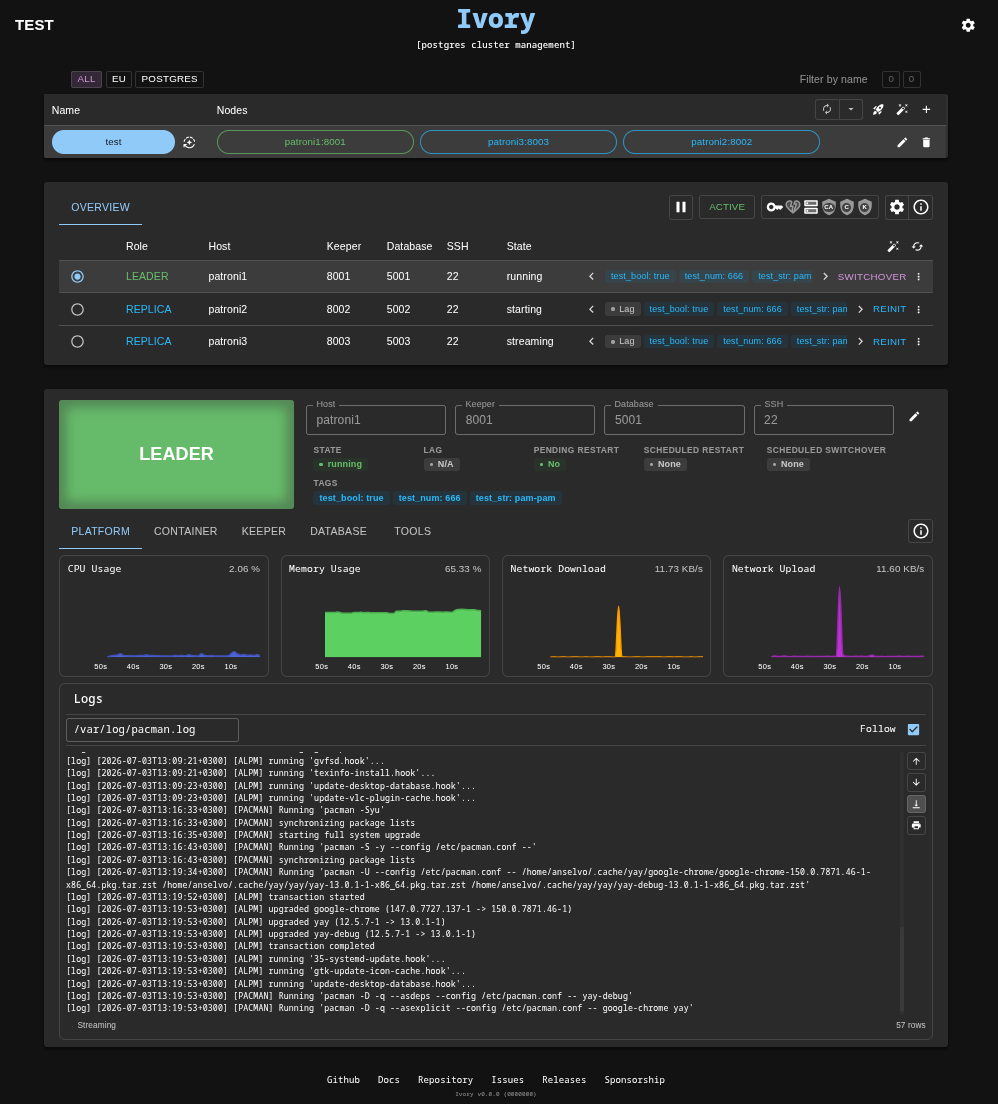
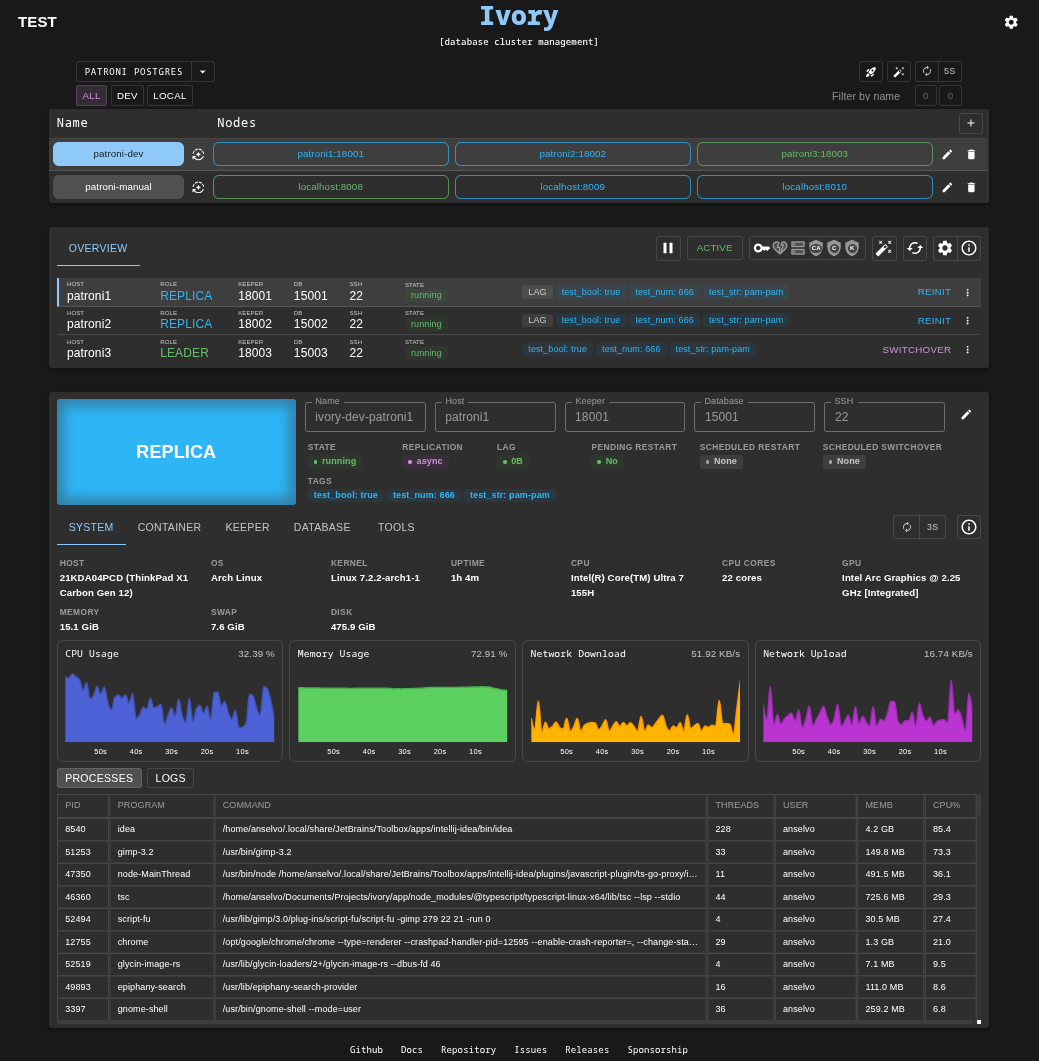
replace image in README.md; fix ivory-dev patroni run; add cluster detect alert

diff --git a/app/features/cluster/component/ClusterDetect.tsx b/app/features/cluster/component/ClusterDetect.tsx
@@ -2,6 +2,7 @@ import {AutoFixHigh} from "@mui/icons-material"
 import {Box, Button, TextField} from "@mui/material"
 import {useCallback, useEffect, useState} from "react"
 
+import {AlertCentered} from "../../../shared/component/box/AlertCentered"
 import {DialogScreen} from "../../../shared/component/box/DialogScreen"
 import {PaperBlue} from "../../../shared/component/box/PaperBlue"
 import {TitleBox} from "../../../shared/component/box/TitleBox"
@@ -59,6 +60,7 @@ export function ClusterDetect(props: Props) {
             >
                 <DialogScreen renderActions={renderActions()}>
                     <Box sx={SX.box}>
+                        {renderInfo()}
                         {renderCluster()}
                         {renderNode()}
                     </Box>
@@ -72,6 +74,17 @@ export function ClusterDetect(props: Props) {
             <Button fullWidth={true} loading={updateCluster.isPending} onClick={handleDetect}>
                 Detect
             </Button>
+        )
+    }
+
+    function renderInfo() {
+        return (
+            <PaperBlue>
+                <AlertCentered text={
+                    "Host, name, and ports come from the keeper, not your platform - if ports are mapped " +
+                    "or forwarded, they may differ from what you'd expect"
+                }/>
+            </PaperBlue>
         )
     }
 

diff --git a/app/features/node/component/container/ContainerList.tsx b/app/features/node/component/container/ContainerList.tsx
@@ -28,7 +28,7 @@ export function ContainerList(props: Props) {
     const list = useRouterNodePlatformList(connection)
 
     if (list.isError) return <ErrorSmart error={list.error}/>
-    if (list.isPending) return <SkeletonGroup count={1}/>
+    if (list.isPending) return <SkeletonGroup count={1} width={"100%"} height={130}/>
 
     return (
         <Box sx={SX.box}>

diff --git a/.docker/ivory-dev/README.md b/.docker/ivory-dev/README.md
@@ -13,10 +13,10 @@ All postgres instances are configured with ssl by default, and there are differe
 
 ## Connection
 
-- **Patroni Rest API:** `localhost:[8001-8005]` (example http://patroni1:8003)
-- **Postgres Ports:** `localhost:[5001-5005]` (example `psql --host=localhost --port=5003 --dbname=postgres --username=admin`, `password=admin`)
-- **HAProxy Statistics:** `localhost:8404` (example http://localhost:8404)
-- **Additional Patroni API** `patroni[1-3,-cert,-pass]:8008` you can add them to your hosts
+- **Patroni Rest API:** `localhost:[18001-18005]` (example http://patroni1:18003)
+- **Postgres Ports:** `localhost:[15001-15005]` (example `psql --host=localhost --port=15003 --dbname=postgres --username=admin`, `password=admin`)
+- **HAProxy Statistics:** `localhost:18404` (example http://localhost:18404)
+- **Additional Patroni API** `patroni[1-3,-cert,-pass]:18008` you can add them to your hosts
   (`/etc/hosts`) these lines to the file
   ``` 
   127.0.0.1 patroni1
@@ -25,12 +25,17 @@ All postgres instances are configured with ssl by default, and there are differe
   127.0.0.1 patroni-cert
   127.0.0.1 patroni-pass
   ```
-  
+
+The ports are shifted into the `18xxx`/`15xxx` range (and the containers are named `ivory-dev-*`) so this
+fixture never collides with the container names or ports that a shipped single-host deployment template
+(e.g. Patroni's, which defaults to `patroni1`/`patroni2`/`patroni3` on ports `8008-8010`) would use if you
+deploy it against `localhost` from the same Docker daemon.
+
 ### Clusters
 
-- `patroni[1-3]:[8001-8003]` - cluster is needed for general test
-- `patroni-cert:8004` - cluster is needed to check patroni certificates and required client certificates
-- `patroni-pass:8005` - cluster is needed to check patroni password and required password for unsafe requests
+- `patroni[1-3]:[18001-18003]` - cluster is needed for general test
+- `patroni-cert:18004` - cluster is needed to check patroni certificates and required client certificates
+- `patroni-pass:18005` - cluster is needed to check patroni password and required password for unsafe requests
 
 ### Users
 
@@ -44,7 +49,7 @@ All postgres instances are configured with ssl by default, and there are differe
 - `sslfull` - custom user, it requires `verify-full` connection and has password `sslfull:sslfull`
 
 #### Patroni
-- `patroni` - it is used to connect to cluster `patroni-pass:8005` with password `patroni:patroni
+- `patroni` - it is used to connect to cluster `patroni-pass:18005` with password `patroni:patroni
 
 ### Data
 

diff --git a/README.md b/README.md
@@ -3,7 +3,7 @@
 
 # Ivory
 
-### [database cluster management tool]
+### Deploy it. Watch it. Fix it. Anywhere.
 
    <img src="https://img.shields.io/github/deployments/veegres/ivory/production?style=flat-square&link=https%3A%2F%2Fgithub.com%2Fveegres%2Fivory%2Fdeployments%2Fproduction" alt="deployment" />
    <img src="https://img.shields.io/docker/v/veegres/ivory/latest?label=stable&style=flat-square&link=https%3A%2F%2Fhub.docker.com%2Fr%2Fveegres%2Fivory" alt="stable version" />
